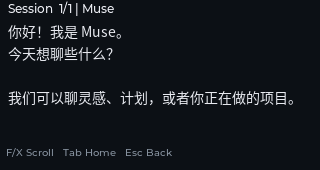
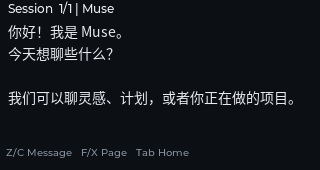
ui: add message paging, call prompts, new shortcuts and in-app help
- Left/Right (Z/C) move between messages; Up/Down (F/X) page a message
- Starting voice and Listening prompts replace the caption until text arrives
- Move volume to S/D, Settings to P; list every key and the version on H
- Show position in the role label and keep the selected message on Tab
- Bump to 0.2.9 and refresh screenshots and documentation

Changed region(s): [[0.0, 0.8529, 0.5938, 0.9412]]

diff --git a/src/main.cpp b/src/main.cpp
@@ -23,6 +23,9 @@ extern "C" {
 #include "src/drivers/display/fb/lv_linux_fbdev.h"
 #endif
 namespace fs=std::filesystem;
+#ifndef MUSER_VERSION
+#define MUSER_VERSION "dev"
+#endif
 static volatile sig_atomic_t interrupted=0;
 static void stop_signal(int){interrupted=1;}
 static uint32_t ticks(){
@@ -57,10 +60,11 @@ class UI{
     json prefs_={{"volume",70},{"idle_timeout",45},{"overall_timeout",300},{"input_device",nullptr},{"output_device",nullptr},{"language","en"}};
     json devices_=json::array();
     int history_=0,setting_=0;
-    std::string mode_="unpaired",status_="Starting",notice_,caption_id_,setup_url_,pair_name_,call_phase_="idle";
+    std::string mode_="unpaired",status_="Starting",notice_,caption_id_,setup_url_,pair_name_,call_phase_="idle",previous_page_="home";
     uint32_t setup_until_=0;
     float level_=0,mode_at_=0;
     bool call_=false,muted_=false,paired_=false;
+    bool call_has_text_=false,follow_latest_=true;
     uint32_t esc_at_=0,notice_until_=0;
     bool esc_down_=false;
     bool chinese()const{return prefs_.value("language",std::string("en"))=="zh-CN";}
@@ -74,41 +78,76 @@ class UI{
     std::string footer_text()const{
         if(page=="setup"||page=="pairing")return tr("Same Wi-Fi   Esc Cancel","同一局域网   Esc 取消");
         if(page=="compose")return tr("Enter Send   Esc Cancel   English input","Enter 发送   Esc 取消   英文输入");
-        if(page=="settings")return tr("F/X Select   Z/C Change   Enter OK   Esc Back","F/X 选择  Z/C 修改  Enter 确认");
-        if(page=="history")return tr("F/X Scroll   Tab Home   Esc Back","F/X 翻阅   Tab 返回   Esc 返回");
+        if(page=="settings")return tr("F/X Select   Z/C Change   S/D Vol   Esc Back","F/X 选择  Z/C 修改  S/D 音量  Esc 返回");
+        if(page=="help")return tr("F/X Scroll   H/Esc Back","F/X 滚动   H/Esc 返回");
+        if(page=="history")return tr("Z/C Message   F/X Page   Tab Home","Z/C 消息  F/X 翻页  Tab 返回");
         if(call_phase_=="stopping")return tr("Ending call...","正在结束语音……");
-        if(call_)return tr("Space End   B Interrupt   M Mute","Space 挂断   B 打断   M 静音");
-        if(paired_&&(mode_=="connecting"||mode_=="offline"))return tr("Space Retry Muse   S Settings","Space 重试 Muse   S 设置");
-        if(mode_=="unpaired")return tr("Space Phone setup   S Settings","Space 手机连接   S 设置");
-        return call_?tr("Space End   B Interrupt   M Mute","Space 挂断   B 打断   M 静音"):tr("Space Talk   Enter Type   S Settings","Space 通话   Enter 输入   S 设置");
+        if(call_)return tr("Space End   B Break   Z/C Msg   S/D Vol   H Help","Space 挂断  B 打断  Z/C 消息  S/D 音量  H 帮助");
+        if(paired_&&(mode_=="connecting"||mode_=="offline"))return tr("Space Retry   P Settings   H Help","Space 重试  P 设置  H 帮助");
+        if(mode_=="unpaired")return tr("Space Setup   P Settings   H Help","Space 连接  P 设置  H 帮助");
+        return tr("Space Talk   Enter Type   P Settings   H Help","Space 通话  Enter 输入  P 设置  H 帮助");
+    }
+    void change_volume(int delta){
+        int volume=std::clamp(prefs_["volume"].get<int>()+delta,0,100);prefs_["volume"]=volume;
+        bridge_.send({{"command","settings"},{"values",{{"volume",volume}}}});
+        toast(tr("Volume ","音量 ")+std::to_string(volume)+"%");
     }
     void refresh_caption(){
         if(page!="home"||!caption_)return;
+        if(call_&&!call_has_text_){
+            lv_obj_set_style_text_font(role_,&lv_font_montserrat_10,0);
+            lv_label_set_text(role_,"MUSER");
+            std::string hint;
+            if(call_phase_=="stopping")hint=tr("Ending call...","正在结束语音……");
+            else if(mode_=="listening")hint=tr("Listening...\n\nSpeak now.","正在聆听……\n\n请开始说话。");
+            else if(call_phase_=="starting")hint=tr("Starting voice...\n\nConnecting to Muse.\nPlease wait.","正在开启语音……\n\n正在连接 Muse\n请稍候。");
+            else hint=tr("Listening...\n\nSpeak now.","正在聆听……\n\n请开始说话。");
+            lv_label_set_text(caption_,hint.c_str());
+            lv_obj_set_style_text_color(caption_,color(ACCENT),0);
+            if(caption_id_!="__prompt__"){lv_obj_scroll_to_y(scroll_,0,LV_ANIM_OFF);caption_id_="__prompt__";}
+            return;
+        }
+        lv_obj_set_style_text_color(caption_,color(TEXT),0);
         if(paired_&&!call_&&(mode_=="connecting"||mode_=="offline")){
             lv_obj_set_style_text_font(role_,chinese()?font_:&lv_font_montserrat_10,0);
             lv_label_set_text(role_,tr("PAIRED","已配对").c_str());
-            lv_label_set_text(caption_,status_.c_str());return;
+            lv_label_set_text(caption_,status_.c_str());caption_id_.clear();return;
         }
         if(messages_.empty()){
             lv_label_set_text(role_,"MUSER");
             auto hint=mode_=="unpaired"?tr("Press Space for\nphone setup.\n\nScan. Paste. Pair.","按空格开始\n手机连接\n\n扫码导入后\n蓝牙配对"):
-                tr("Press Space to\ntalk to Muse.\n\nTab for this\nsession's messages.","按空格，与 Muse\n开始语音对话。\n\nTab 查看本次记录");
-            lv_label_set_text(caption_,hint.c_str());return;
+                tr("Press Space to\ntalk to Muse.\n\nTab for history.\nH for help.","按空格，与 Muse\n开始语音对话。\n\nTab 查看记录\nH 查看帮助");
+            lv_label_set_text(caption_,hint.c_str());caption_id_.clear();return;
         }
-        auto& m=messages_.back();
+        int last=int(messages_.size())-1;
+        if(history_<0||history_>last)history_=last;
+        auto& m=messages_[history_];
+        std::string role=m.role=="user"?tr("YOU","我"):"MUSE";
+        if(messages_.size()>1)role+=" "+std::to_string(history_+1)+"/"+std::to_string(messages_.size());
         lv_obj_set_style_text_font(role_,m.role=="user"?font_:&lv_font_montserrat_10,0);
-        lv_label_set_text(role_,m.role=="user"?tr("YOU","我").c_str():"MUSE");
+        lv_label_set_text(role_,role.c_str());
         lv_label_set_text(caption_,m.text.c_str());
         if(caption_id_!=m.id){lv_obj_scroll_to_y(scroll_,0,LV_ANIM_OFF);caption_id_=m.id;}
-        else if(!m.final){lv_obj_update_layout(scroll_);lv_obj_scroll_to_y(scroll_,LV_COORD_MAX,LV_ANIM_OFF);}
+        else if(!m.final&&follow_latest_&&history_==last){lv_obj_update_layout(scroll_);lv_obj_scroll_to_y(scroll_,LV_COORD_MAX,LV_ANIM_OFF);}
     }
     void history_caption(){
-        if(messages_.empty()){lv_label_set_text(header_,tr("Session | 0 messages","本次对话 · 0 条").c_str());lv_label_set_text(caption_,tr("No messages yet.\nPress Tab to go back and talk to Muse.","本次还没有对话。\n按 Tab 返回，与 Muse 说句话。").c_str());return;}
+        if(messages_.empty()){history_=0;caption_id_.clear();lv_label_set_text(header_,tr("Session | 0 messages","本次对话 · 0 条").c_str());lv_label_set_text(caption_,tr("No messages yet.\nPress Tab to go back and talk to Muse.","本次还没有对话。\n按 Tab 返回，与 Muse 说句话。").c_str());return;}
         history_=std::clamp(history_,0,int(messages_.size())-1);
         auto& m=messages_[history_];
         lv_label_set_text(caption_,m.text.c_str());
         std::string h=tr("Session  ","本次对话  ")+std::to_string(history_+1)+"/"+std::to_string(messages_.size())+tr(" | ","  · ")+(m.role=="user"?tr("You","我"):"Muse");
-        lv_label_set_text(header_,h.c_str());lv_obj_scroll_to_y(scroll_,0,LV_ANIM_OFF);
+        lv_label_set_text(header_,h.c_str());lv_obj_scroll_to_y(scroll_,0,LV_ANIM_OFF);caption_id_=m.id;
+    }
+    std::string help_text()const{
+        std::string s=std::string("Muser ")+MUSER_VERSION+"\n\n";
+        s+=tr("Space Talk/end   B Interrupt   M Mute\n","Space 开始/结束   B 打断   M 静音\n");
+        s+=tr("Z/C or Left/Right   Previous / next message\n","Z/C 或 左/右   上一条 / 下一条消息\n");
+        s+=tr("F/X or Up/Down   Page the current message\n","F/X 或 上/下   当前消息翻页\n");
+        s+=tr("S/D Volume -/+   P Settings   H Help\n","S/D 音量 -/+   P 设置   H 帮助\n");
+        s+=tr("Tab History   Enter Text chat\n","Tab 本次记录   Enter 文字聊天\n");
+        s+=tr("Esc Back/hang up   Hold Esc Exit\n","Esc 返回/挂断   长按 Esc 退出\n");
+        s+=tr("In text input, letters are typed as text.","文字输入时，字母按普通文本输入。");
+        return s;
     }
     void refresh_settings(){
         if(page!="settings")return;
@@ -214,7 +253,11 @@ public:
         }else if(page=="history"){
             scroll_=plain(body_,8,4,304,120);lv_obj_add_flag(scroll_,LV_OBJ_FLAG_SCROLLABLE);
             lv_obj_set_scrollbar_mode(scroll_,LV_SCROLLBAR_MODE_OFF);
-            caption_=label(scroll_,cjk_,0,0,298,"");history_=int(messages_.size())-1;history_caption();
+            caption_=label(scroll_,cjk_,0,0,298,"");if(history_<0||history_>=int(messages_.size()))history_=int(messages_.size())-1;history_caption();
+        }else if(page=="help"){
+            scroll_=plain(body_,4,2,312,124);lv_obj_add_flag(scroll_,LV_OBJ_FLAG_SCROLLABLE);
+            lv_obj_set_scrollbar_mode(scroll_,LV_SCROLLBAR_MODE_OFF);
+            caption_=label(scroll_,chinese()?cjk_:&lv_font_montserrat_10,4,0,304,help_text().c_str());
         }else if(page=="compose"){
             label(body_,font_,8,3,304,tr("English, numbers and symbols","输入英文、数字和符号").c_str(),DIM);
             editor_=lv_textarea_create(body_);lv_obj_set_pos(editor_,8,27);lv_obj_set_size(editor_,304,92);
@@ -250,14 +293,22 @@ public:
             std::string id=e.value("id",std::string()),text=e.value("text",std::string());
             if(id.empty()||text.size()>65536)return;
             auto it=std::find_if(messages_.begin(),messages_.end(),[&](auto& m){return m.id==id;});
-            if(it==messages_.end())messages_.push_back({id,e.value("role",std::string("assistant")),text,e.value("final",false)});
+            bool added=it==messages_.end();
+            if(added)messages_.push_back({id,e.value("role",std::string("assistant")),text,e.value("final",false)});
             else{it->text=text;it->final=e.value("final",false);}
             size_t bytes=0;for(auto& m:messages_)bytes+=m.text.size();
             while(messages_.size()>256||bytes>2*1024*1024){bytes-=messages_.front().text.size();messages_.erase(messages_.begin());}
-            refresh_caption();
+            if(call_)call_has_text_=true;
+            if(added){history_=int(messages_.size())-1;follow_latest_=true;}
+            else if(follow_latest_)history_=int(messages_.size())-1;
+            if(page=="history")history_caption();else refresh_caption();
         }else if(type=="level")level_=mode_=="speaking"?e.value("playback",0.f):e.value("mic",0.f);
         else if(type=="call"){
-            call_=e.value("active",false);call_phase_=e.value("phase",std::string(call_?"live":"idle"));
+            bool active=e.value("active",false);
+            std::string phase=e.value("phase",std::string(active?"live":"idle"));
+            if(active&&(!call_||phase=="starting")){call_has_text_=false;follow_latest_=true;}
+            call_=active;call_phase_=phase;
+            refresh_caption();
         }
         else if(type=="muted"){muted_=e.value("value",false);refresh_settings();}
         else if(type=="settings"){
@@ -289,6 +340,7 @@ public:
             else if(esc_down_){esc_down_=false;if(ticks()-esc_at_<700){
                 if(modal_){lv_obj_delete(modal_);modal_=nullptr;}
                 else if(page=="setup"||page=="pairing"){bridge_.send({{"command","pair.cancel"}});show("settings");}
+                else if(page=="help")show(previous_page_);
                 else if(page!="home")show("home");else if(call_)bridge_.send({{"command","call.stop"}});
                 else toast(tr("Hold Esc to exit Muser","长按 Esc 退出 Muser"));
             }}return;
@@ -312,14 +364,17 @@ public:
             int dir=routed==K_UP?-1:1;
             if(page=="settings"){setting_=(setting_+dir+10)%10;refresh_settings();}
             else if(scroll_){
-                lv_obj_update_layout(scroll_);
-                if(page=="history"&&((dir<0&&lv_obj_get_scroll_y(scroll_)<=0)||(dir>0&&lv_obj_get_scroll_bottom(scroll_)<=0))){
-                    history_+=dir;history_caption();
-                }else lv_obj_scroll_by(scroll_,0,-dir*48,LV_ANIM_OFF);
+                follow_latest_=false;lv_obj_update_layout(scroll_);
+                int step=std::max(24,lv_obj_get_height(scroll_)-18);
+                lv_obj_scroll_by(scroll_,0,-dir*step,LV_ANIM_OFF);
             }return;
         }
         if(e.repeat)return;
         int k=routed;if(k>='A'&&k<='Z')k+=32;
+        if(page=="help"){
+            if(k=='h')show(previous_page_);
+            return;
+        }
         if(page=="settings"){
             if(k==K_LEFT||k==K_RIGHT)adjust_setting(k==K_LEFT?-1:1);
             else if(k==K_ENTER){
@@ -327,23 +382,32 @@ public:
                 else if(setting_==7)bridge_.send({{"command","clear"}});
                 else if(setting_==8)bridge_.send({{"command","connect"}});
                 else adjust_setting(1);
-            }return;
+            }else if(k=='h'){previous_page_="settings";show("help");}
+            else if(k=='s'||k=='d')change_volume(k=='d'?5:-5);
+            return;
         }
         if(k==K_TAB)show(page=="history"?"home":"history");
         else if(k==K_ENTER)bridge_.send({{"command","compose"}});
-        else if(k=='s')show("settings");
+        else if(k=='p')show("settings");
+        else if(k=='h'){previous_page_=page;show("help");}
+        else if(k=='s'||k=='d')change_volume(k=='d'?5:-5);
         else if(k==' '){auto command=space_command();if(!command.empty())bridge_.send({{"command",command}});}
         else if(k=='b')bridge_.send({{"command","call.interrupt"}});
         else if(k=='m'){muted_=!muted_;bridge_.send({{"command","mic.mute"},{"muted",muted_}});}
         else if(k==K_LEFT||k==K_RIGHT){
-            int volume=std::clamp(prefs_["volume"].get<int>()+(k==K_LEFT?-5:5),0,100);prefs_["volume"]=volume;
-            bridge_.send({{"command","settings"},{"values",{{"volume",volume}}}});toast(tr("Volume ","音量 ")+std::to_string(volume)+"%");
+            if(!messages_.empty()&&!(call_&&!call_has_text_)){
+                int dir=k==K_LEFT?-1:1;
+                int base=history_<0?int(messages_.size())-1:history_;
+                history_=std::clamp(base+dir,0,int(messages_.size())-1);
+                follow_latest_=false;
+                if(page=="history")history_caption();else refresh_caption();
+            }
         }
     }
     void frame(){
         if(esc_down_&&ticks()-esc_at_>=700)running=false;
         if(page!="history"){
-            std::string title=page=="settings"?tr("Settings  ","设置  ")+std::to_string(setting_+1)+"/10":page=="compose"?tr("Muser | Text chat","Muser · 文字聊天"):page=="setup"?tr("Muser | Phone setup","Muser · 手机设置"):page=="pairing"?tr("Muser | Pair phone","Muser · 蓝牙配对"):"Muser";
+            std::string title=page=="settings"?tr("Settings  ","设置  ")+std::to_string(setting_+1)+"/10":page=="help"?tr("Muser | Help","Muser · 帮助"):page=="compose"?tr("Muser | Text chat","Muser · 文字聊天"):page=="setup"?tr("Muser | Phone setup","Muser · 手机设置"):page=="pairing"?tr("Muser | Pair phone","Muser · 蓝牙配对"):"Muser";
             if(page=="home")title+=tr(" | ","  · ")+(mode_=="unpaired"?tr("Not paired","未配对"):mode_=="offline"?tr("Paired / retrying","已配对 / 重试中"):mode_=="connecting"?tr("Connecting Muse","连接 Muse 中"):mode_=="speaking"?tr("Speaking","说话中"):mode_=="listening"?tr("Listening","聆听中"):mode_=="thinking"?tr("Thinking","思考中"):mode_=="error"?tr("Error","连接异常"):tr("Ready","就绪"));
             if(page=="home"&&call_phase_=="starting")title=tr("Muser | Starting voice","Muser · 正在开启语音");
             if(page=="home"&&call_phase_=="stopping")title=tr("Muser | Ending voice","Muser · 正在结束语音");
@@ -390,18 +454,46 @@ public:
         frame();capture(fs::path(root_path())/".cache/ui-paired-retry.png");
         event({{"type","status"},{"mode","idle"},{"text","Demo"}});
         event({{"type","call"},{"active",true},{"phase","starting"}});
+        if(std::string(lv_label_get_text(caption_)).find("Starting voice")==std::string::npos)throw std::runtime_error("Starting voice prompt missing");
         event({{"type","status"},{"mode","connecting"},{"text","Starting voice"}});
         if(space_command()!="call.stop"||footer_text().find("End")==std::string::npos)throw std::runtime_error("Voice startup Space incorrectly reconnects Muse");
+        event({{"type","status"},{"mode","listening"},{"text","Listening"}});
+        if(std::string(lv_label_get_text(caption_)).find("Listening")==std::string::npos)throw std::runtime_error("Listening prompt missing");
+        event({{"type","transcript"},{"id","prompt"},{"role","assistant"},{"text","Prompt replaced"},{"final",true}});
+        if(std::string(lv_label_get_text(caption_))!="Prompt replaced")throw std::runtime_error("Transcript did not replace the call prompt");
         event({{"type","call"},{"active",true},{"phase","stopping"}});
         if(!space_command().empty())throw std::runtime_error("Space queued a new command during hangup");
         event({{"type","call"},{"active",false},{"phase","idle"}});
         event({{"type","status"},{"mode","idle"},{"text","Demo"}});
         if(space_command()!="call.start")throw std::runtime_error("Voice redial did not recover after hangup");
-        show("settings");setting_=0;key({'x',true,"x"});
+        event({{"type","transcript"},{"id","u1"},{"role","user"},{"text","First message"},{"final",true}});
+        event({{"type","transcript"},{"id","a1"},{"role","assistant"},{"text","Second message"},{"final",true}});
+        if(std::string(lv_label_get_text(caption_))!="Second message")throw std::runtime_error("Latest message was not shown");
+        key({K_LEFT,true,""});
+        if(history_!=1||std::string(lv_label_get_text(caption_))!="First message")throw std::runtime_error("Left did not move to the previous message");
+        key({K_RIGHT,true,""});
+        if(history_!=2||std::string(lv_label_get_text(caption_))!="Second message")throw std::runtime_error("Right did not move to the next message");
+        std::string longtext;
+        for(int i=0;i<24;i++)longtext+="Line "+std::to_string(i)+"\n";
+        event({{"type","transcript"},{"id","long"},{"role","assistant"},{"text",longtext},{"final",true}});
+        key({K_DOWN,true,""});
+        if(lv_obj_get_scroll_y(scroll_)<=0)throw std::runtime_error("Down did not page the current message");
+        key({K_UP,true,""});
+        if(lv_obj_get_scroll_y(scroll_)>0)throw std::runtime_error("Up did not page back");
+        key({'p',true,"p"});
+        if(page!="settings")throw std::runtime_error("P did not open Settings");
+        setting_=0;key({'x',true,"x"});
         if(setting_!=1)throw std::runtime_error("Fn-free down navigation failed");
         key({'f',true,"f"});if(setting_!=0)throw std::runtime_error("Fn-free up navigation failed");
-        setting_=3;int volume=prefs_["volume"].get<int>();key({'z',true,"z"});key({'c',true,"c"});
+        setting_=3;int volume=prefs_["volume"].get<int>();
+        key({'d',true,"d"});if(prefs_["volume"]!=volume+5)throw std::runtime_error("D did not raise volume");
+        key({'s',true,"s"});if(prefs_["volume"]!=volume)throw std::runtime_error("S did not lower volume");
+        key({'z',true,"z"});key({'c',true,"c"});
         if(prefs_["volume"]!=volume)throw std::runtime_error("Fn-free value adjustment failed");
+        key({'h',true,"h"});
+        if(page!="help"||std::string(lv_label_get_text(caption_)).find(MUSER_VERSION)==std::string::npos)throw std::runtime_error("Help page or version missing");
+        key({'h',true,"h"});
+        if(page!="settings")throw std::runtime_error("Help did not return to Settings");
         setting_=9;adjust_setting(1);
         if(!chinese()||font_!=cjk_)throw std::runtime_error("Chinese language switch failed");
         frame();capture(fs::path(root_path())/".cache/ui-zh-CN.png");
@@ -412,6 +504,10 @@ public:
         if(chinese()||font_!=&lv_font_montserrat_12)throw std::runtime_error("English language switch failed");
         frame();
         for(unsigned char c:std::string(lv_label_get_text(header_)))if(c>=128)throw std::runtime_error("Unsupported English chrome glyph");
+        show("home");key({'h',true,"h"});
+        if(page!="help")throw std::runtime_error("H did not open Help");
+        key({'h',true,"h"});
+        if(page!="home")throw std::runtime_error("H did not close Help");
         setting_=0;
         show("compose");key({'f',true,"f"});key({'x',true,"x"});key({'z',true,"z"});key({'c',true,"c"});
         if(std::string(lv_textarea_get_text(editor_))!="fxzc")throw std::runtime_error("Navigation letters lost in text input");
@@ -493,7 +589,8 @@ int main(int argc,char** argv){
                         ui.event({{"type","level"},{"playback",.65f}});ui.frame();ui.capture(fs::path(capture_dir)/"speaking.png");}
                     if(stage==2){ui.show("history");ui.frame();ui.capture(fs::path(capture_dir)/"history.png");}
                     if(stage==3){ui.show("settings");ui.frame();ui.capture(fs::path(capture_dir)/"settings.png");}
-                    if(stage==4){ui.event({{"type","setup"},{"url","http://192.168.1.42:8050/"},{"expires",300}});ui.frame();ui.capture(fs::path(capture_dir)/"setup.png");ui.running=false;}
+                    if(stage==4){ui.event({{"type","setup"},{"url","http://192.168.1.42:8050/"},{"expires",300}});ui.frame();ui.capture(fs::path(capture_dir)/"setup.png");}
+                    if(stage==5){ui.show("help");ui.frame();ui.capture(fs::path(capture_dir)/"help.png");ui.running=false;}
                     ++stage;
                 }
                 if(self_test&&stage==0&&t>400){ui.test_composer();stage=1;}

diff --git a/scripts/verify-release.py b/scripts/verify-release.py
@@ -9,7 +9,7 @@ root=Path(__file__).resolve().parents[1]
 meta=json.loads((root/"app-builder.json").read_text())
 assert meta["app_name"]=="Muser" and meta["package_name"]=="muser"
 assert meta["store"]["share_code"]=="MUSE"
-assert meta["version"]=="0.2.8"
+assert meta["version"]=="0.2.9"
 assert meta["store"]["license"]=="Apache-2.0"
 assert len(meta["store"]["screenshots"])==4
 for path in meta["store"]["screenshots"]:

diff --git a/backend/muser/__init__.py b/backend/muser/__init__.py
@@ -1,2 +1,2 @@
 """Muser device application. Conversation contents stay in memory."""
-__version__ = "0.2.8"
+__version__ = "0.2.9"

diff --git a/README.md b/README.md
@@ -47,6 +47,10 @@ file operation.
 - Streaming user and assistant captions with final-text correction. Replies
   from before a barge-in are fenced off so stale audio and text cannot leak
   into the next turn.
+- Caption paging: Left/Right (or Z/C) move between messages and Up/Down (or
+  F/X) page within a long message. The role label shows the current position.
+- Clear call-state prompts: starting a call replaces the caption area with
+  "Starting voice...", then "Listening...", until the first transcript arrives.
 - Text chat from the keyboard through the paired account's main conversation.
 - English and Simplified Chinese UI, English by default. Settings → Language
   switches immediately; both UI languages show Chinese and English captions,
@@ -59,7 +63,8 @@ file operation.
 - In-app phone setup: open the displayed LAN address, paste a personal SDK
   token, then complete Bluetooth pairing from the Muse phone app.
 - Settings rows show labels and values in separate columns, with the active row
-  highlighted. F/X/Z/C navigate without Fn.
+  highlighted. F/X select rows and Z/C change values, all without Fn.
+- H opens an in-app help screen with every shortcut and the build version.
 
 > [!NOTE]
 > Clearing the session view and exiting only drop local memory; they do not
@@ -74,10 +79,8 @@ file operation.
 | ![Home](screenshots/home.png) | ![Live captions](screenshots/speaking.png) |
 | **History** | **Settings** |
 | ![History](screenshots/history.png) | ![Settings](screenshots/settings.png) |
-
-The setup page is shown on the device during first-time pairing:
-
-![Phone setup](screenshots/setup.png)
+| **Help** | **Phone setup** |
+| ![Help](screenshots/help.png) | ![Phone setup](screenshots/setup.png) |
 
 Captures come from the real LVGL UI. The demo QR code is illustrative and does
 not connect to a real setup service.
@@ -160,7 +163,7 @@ The repository also provides a Docker entry point that pins the build image:
 MUSER_BSP_DIR=/absolute/path/to/sdk_bsp-src ./scripts/build-arm64.sh
 ```
 
-The artifact is `dist/muser_0.2.8_arm64.deb`. It targets the current official
+The artifact is `dist/muser_0.2.9_arm64.deb`. It targets the current official
 BSP's ARM64 system and requires glibc ≥ 2.38 and libstdc++ ≥ 13.2; apt checks
 those versions. The package contains the UI, SDK, pinned websockets and
 sounddevice wheels, fonts, icons and the APPLaunch entry. Python cryptography,
@@ -177,13 +180,13 @@ A device needs Python 3.9+, networking, BlueZ, the Muse phone app and a personal
 SDK token.
 
 ```shell
-sudo apt install ./muser_0.2.8_arm64.deb
+sudo apt install ./muser_0.2.9_arm64.deb
 ```
 
 All configuration happens inside Muser; there is no separate setup command.
 
 1. Open **Muser** in the Launcher, press **Space**, or choose
-   **S → Phone setup → Enter**.
+   **P → Phone setup → Enter**.
 2. On first setup the screen enlarges the full `http://IP:port/` address and a
    QR code. Connect the phone or computer to the same LAN and open the address
    by scanning or typing it.
@@ -261,11 +264,13 @@ call does not redial or resume capture on its own; press Space again.
 | Space | Open phone setup when unpaired; retry the Muse connection when paired but offline; start/end voice when connected |
 | B | Interrupt playback and keep talking |
 | M | Mute or unmute the microphone |
-| Z / C, or Left / Right | Playback volume; in Settings, adjust the current row |
+| Z / C, or Left / Right | Previous / next message; in Settings, change the current value |
+| F / X, or Up / Down | Page the current message; move through menus and Settings |
+| S / D | Volume down / up |
+| P | Settings |
+| H | Help: every shortcut and the build version |
 | Enter | End voice and open the text input; send while editing |
 | Tab | Switch between Home and History |
-| F / X, or Up / Down | Menu selection and scrolling; at a history edge, move to the previous/next entry |
-| S | Settings |
 | Short Esc | Back; hang up on the home screen during a call |
 | Long Esc (700 ms) | End the call, release resources and exit |
 
@@ -291,7 +296,7 @@ peak limit of 30,000 to avoid clipping.
 
 Live audio is uploaded in 40 ms frames, paced so send time does not accumulate
 into the next frame interval. Audio queued before the call is admitted is
-discarded at connect. `Z` / `C` adjust Muser's playback volume, default 70%; at
+discarded at connect. `S` / `D` adjust Muser's playback volume, default 70%; at
 100% the original PCM amplitude reaches the system audio layer and system
 volume still controls the speaker.
 
